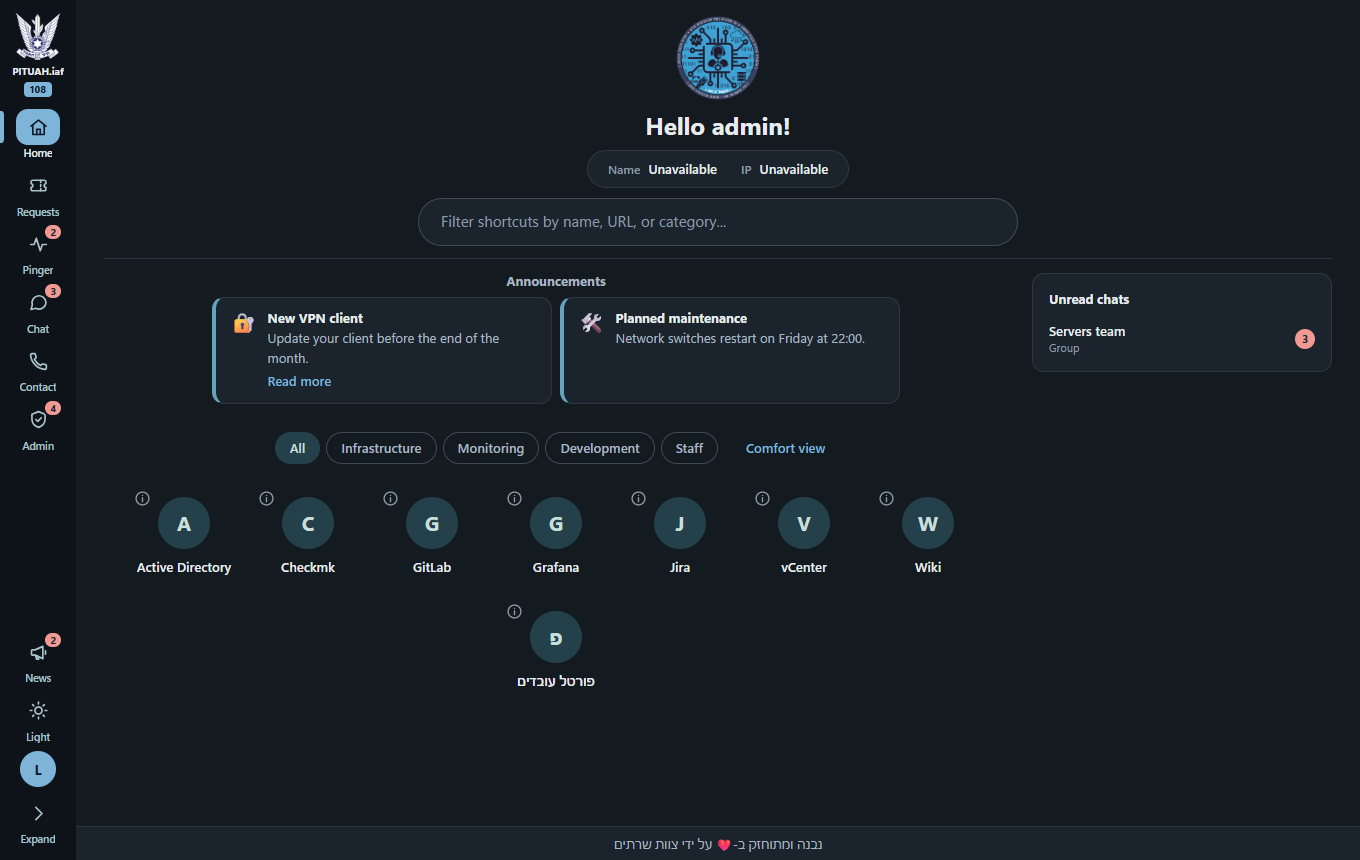
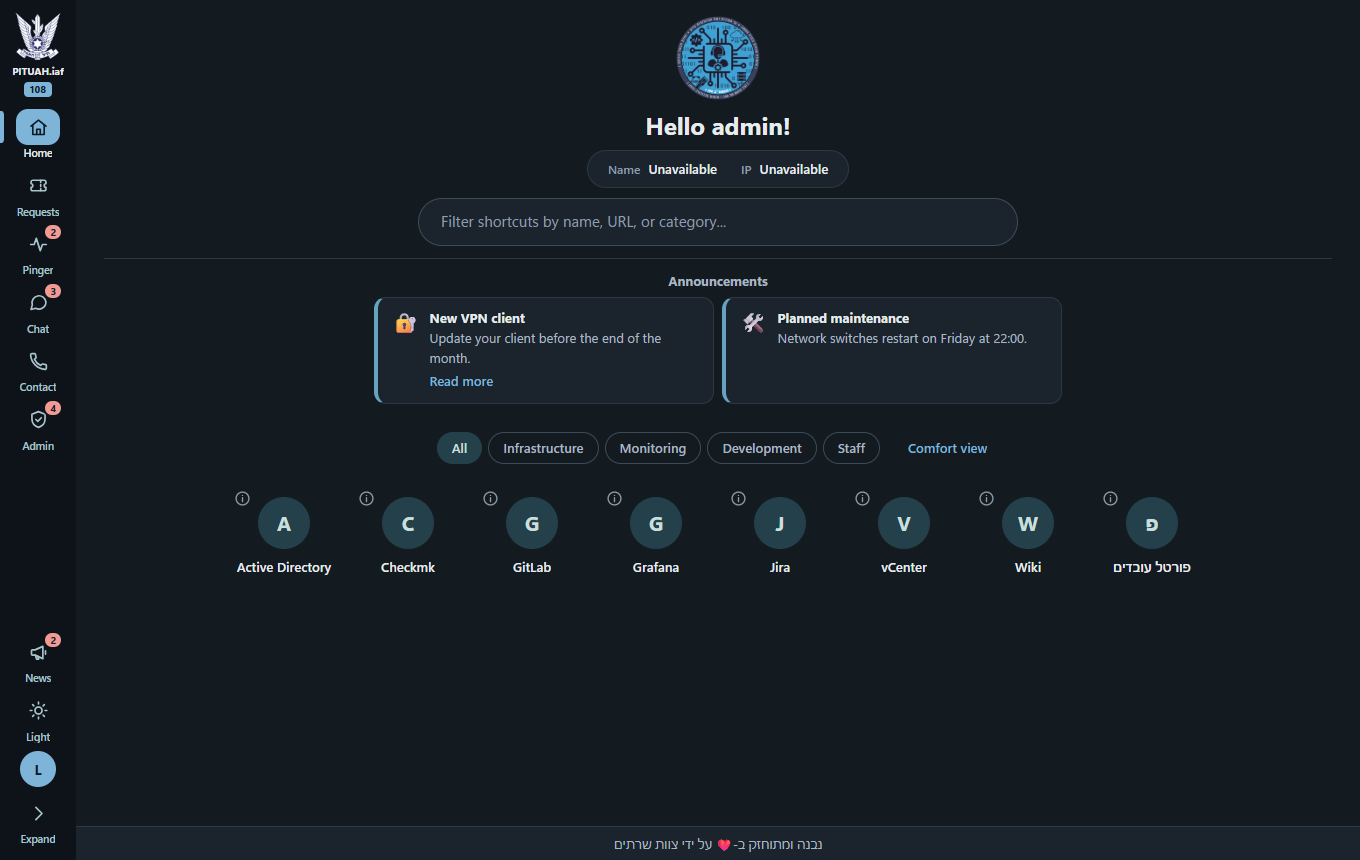
Remove the unread chats box from Home
The badge on Chat in the sidebar already shows the unread count, so Home
no longer lists unread chats or loads the conversation list. Update the
README screenshots to match.

diff --git a/frontend/src/components/Entery.js b/frontend/src/components/Entery.js
@@ -5,21 +5,6 @@ import { isJwtExpired } from '../utils/jwtSession';
 import AppInfoDialog from './AppInfoDialog';
 import { InfoIcon } from './Icons';
 import { safeLink } from '../utils/safeUrl';
-/** Match TeamsChatPanel: open this conversation when switching to the Chat tab from home. */
-const CHAT_FOCUS_CONV_STORAGE_KEY = 'sc_chat_focus_conv_id';
-
-function chatUnreadKindLabel(type) {
-  switch (String(type || '').toLowerCase()) {
-    case 'global':
-      return 'Channel';
-    case 'dm':
-      return 'Direct';
-    case 'group':
-      return 'Group';
-    default:
-      return 'Chat';
-  }
-}
 function displayShortcutUrl(raw) {
   const s = String(raw || '').trim();
   if (!s) return '—';
@@ -203,7 +188,7 @@ function TileMenu({ menu, onClose, onEdit }) {
   );
 }
 
-function Entery({ onOpenAdminCheckmk, onOpenChat, onEditShortcut }) {
+function Entery({ onOpenAdminCheckmk, onEditShortcut }) {
   const [brandLogo, setBrandLogo] = useState('logo192.png');
   const [searchQuery, setSearchQuery] = useState('');
   const [activeCategory, setActiveCategory] = useState('All');
@@ -218,8 +203,6 @@ function Entery({ onOpenAdminCheckmk, onOpenChat, onEditShortcut }) {
   const [systemInfo, setSystemInfo] = useState({ computerName: '', ipAddress: '' });
   const [systemInfoError, setSystemInfoError] = useState('');
   const [systemInfoLoaded, setSystemInfoLoaded] = useState(false);
-  const [lobbyChatUiEnabled, setLobbyChatUiEnabled] = useState(true);
-  const [homeUnreadChats, setHomeUnreadChats] = useState([]);
   const [homeMotd, setHomeMotd] = useState(null);
 
   const [infoAppId, setInfoAppId] = useState(null);
@@ -446,44 +429,6 @@ function Entery({ onOpenAdminCheckmk, onOpenChat, onEditShortcut }) {
     };
   }, []);
 
-  const refreshHomeUnreadChats = useCallback(() => {
-    const token = localStorage.getItem('token');
-    if (!token) {
-      setHomeUnreadChats([]);
-      return;
-    }
-    try {
-      const decoded = jwtDecode(token);
-      if (isJwtExpired(decoded)) {
-        setHomeUnreadChats([]);
-        return;
-      }
-    } catch {
-      setHomeUnreadChats([]);
-      return;
-    }
-
-    fetch('/api/chat/conversations', { headers: { Authorization: `Bearer ${token}` } })
-      .then(async (r) => {
-        if (r.status === 403) return [];
-        if (!r.ok) throw new Error(String(r.status));
-        const data = await r.json();
-        const list = Array.isArray(data.conversations) ? data.conversations : [];
-        return list.filter((c) => typeof c.unread === 'number' && c.unread > 0);
-      })
-      .then((rows) => {
-        rows.sort((a, b) => {
-          const diff = Number(b.unread || 0) - Number(a.unread || 0);
-          if (diff !== 0) return diff;
-          return String(a.title || '').localeCompare(String(b.title || ''), undefined, {
-            sensitivity: 'base',
-          });
-        });
-        setHomeUnreadChats(rows);
-      })
-      .catch(() => {});
-  }, []);
-
   useEffect(() => {
     let cancelled = false;
     const load = () => {
@@ -509,55 +454,13 @@ function Entery({ onOpenAdminCheckmk, onOpenChat, onEditShortcut }) {
     fetch('/api/settings/public')
       .then((r) => (r.ok ? r.json() : {}))
       .then((settings) => {
-        if (cancelled) return;
-        setLobbyChatUiEnabled(settings?.lobbyChatEnabled !== false);
-        if (settings?.logoUrl) setBrandLogo(settings.logoUrl);
+        if (!cancelled && settings?.logoUrl) setBrandLogo(settings.logoUrl);
       })
-      .catch(() => {
-        if (!cancelled) setLobbyChatUiEnabled(true);
-      });
+      .catch(() => {});
     return () => {
       cancelled = true;
     };
   }, []);
-
-  useEffect(() => {
-    if (!lobbyChatUiEnabled) {
-      setHomeUnreadChats([]);
-      return undefined;
-    }
-    const tick = () => refreshHomeUnreadChats();
-    tick();
-    const id = setInterval(tick, 20000);
-    const onFocus = () => tick();
-    const onActivity = () => tick();
-    const onVis = () => {
-      if (!document.hidden) tick();
-    };
-    window.addEventListener('focus', onFocus);
-    window.addEventListener('sc:chat-activity', onActivity);
-    document.addEventListener('visibilitychange', onVis);
-    return () => {
-      clearInterval(id);
-      window.removeEventListener('focus', onFocus);
-      window.removeEventListener('sc:chat-activity', onActivity);
-      document.removeEventListener('visibilitychange', onVis);
-    };
-  }, [lobbyChatUiEnabled, refreshHomeUnreadChats]);
-
-  const openUnreadChatThread = useCallback(
-    (conversationId) => {
-      try {
-        sessionStorage.setItem(CHAT_FOCUS_CONV_STORAGE_KEY, String(conversationId));
-      } catch {
-        /* ignore */
-      }
-      if (typeof onOpenChat === 'function') {
-        onOpenChat();
-      }
-    },
-    [onOpenChat],
-  );
 
   const checkmkTileLoading =
     checkmkUiEnabled &&
@@ -825,37 +728,6 @@ function Entery({ onOpenAdminCheckmk, onOpenChat, onEditShortcut }) {
                 </aside>
               ) : null}
 
-              {lobbyChatUiEnabled && typeof onOpenChat === 'function' && homeUnreadChats.length > 0 ? (
-                <aside className="home-chat-unread-widget" aria-label="Unread chats">
-                  <div className="home-chat-unread-widget__heading">
-                    <span className="home-chat-unread-widget__label">Unread chats</span>
-                  </div>
-                  <ul className="home-chat-unread-widget__list">
-                    {homeUnreadChats.map((c) => {
-                      const kind = chatUnreadKindLabel(c.type);
-                      const title = c.title || 'Chat';
-                      return (
-                        <li key={String(c.id)} className="home-chat-unread-widget__item">
-                          <button
-                            type="button"
-                            className="home-chat-unread-widget__row"
-                            onClick={() => openUnreadChatThread(c.id)}
-                            aria-label={`Open chat: ${title}, ${kind}, ${typeof c.unread === 'number' ? c.unread : 0} unread`}
-                          >
-                            <span className="home-chat-unread-widget__row-main">
-                              <span className="home-chat-unread-widget__title">{title}</span>
-                              <span className="home-chat-unread-widget__kind">{kind}</span>
-                            </span>
-                            <span className="home-chat-unread-widget__badge" aria-hidden="true">
-                              {typeof c.unread === 'number' && c.unread > 99 ? '99+' : c.unread}
-                            </span>
-                          </button>
-                        </li>
-                      );
-                    })}
-                  </ul>
-                </aside>
-              ) : null}
             </div>
           </div>
         </div>

diff --git a/frontend/src/styles/home.css b/frontend/src/styles/home.css
@@ -364,8 +364,7 @@ button.home-admin-open-square:hover {
 
 /* Side widgets */
 .home-system-widget,
-.home-motd-widget,
-.home-chat-unread-widget {
+.home-motd-widget {
   padding: 14px 16px;
   background: var(--surface);
   border: 1px solid var(--border);
@@ -419,75 +418,6 @@ button.home-admin-open-square:hover {
 
 .home-motd-widget__placeholder {
   font-size: 13px;
-}
-
-.home-chat-unread-widget__heading {
-  margin-bottom: 6px;
-}
-
-.home-chat-unread-widget__label {
-  font-size: 13px;
-  font-weight: 650;
-}
-
-.home-chat-unread-widget__list {
-  display: flex;
-  flex-direction: column;
-  gap: 2px;
-  margin: 0 -8px -6px;
-  padding: 0;
-  list-style: none;
-}
-
-.home-chat-unread-widget__row {
-  display: flex;
-  align-items: center;
-  justify-content: space-between;
-  gap: 10px;
-  width: 100%;
-  padding: 6px 8px;
-  background: transparent;
-  border: 0;
-  border-radius: var(--radius-sm);
-  text-align: start;
-}
-
-.home-chat-unread-widget__row:hover {
-  background: var(--surface-3);
-}
-
-.home-chat-unread-widget__row-main {
-  display: flex;
-  flex: 1;
-  flex-direction: column;
-  min-width: 0;
-}
-
-.home-chat-unread-widget__title {
-  max-width: 100%;
-  overflow: hidden;
-  font-size: 13px;
-  font-weight: 600;
-  text-overflow: ellipsis;
-  white-space: nowrap;
-}
-
-.home-chat-unread-widget__kind {
-  color: var(--text-3);
-  font-size: 11px;
-}
-
-.home-chat-unread-widget__badge {
-  flex-shrink: 0;
-  min-width: 20px;
-  padding: 0 6px;
-  background: var(--danger);
-  border-radius: var(--radius-pill);
-  color: var(--surface);
-  font-size: 11px;
-  font-weight: 700;
-  line-height: 20px;
-  text-align: center;
 }
 
 /* Announcements */

diff --git a/frontend/src/App.js b/frontend/src/App.js
@@ -256,7 +256,6 @@ function App() {
           {activeTab === 'entery' && (
             <Entery
               onOpenAdminCheckmk={() => handleTabClick('admindashboard', { adminInitialTab: 'checkmk' })}
-              onOpenChat={() => handleTabClick('lobbyChat')}
               onEditShortcut={(id) => handleTabClick('admindashboard', { adminInitialTab: 'shortcuts', editShortcutId: id })}
             />
           )}

diff --git a/README.md b/README.md
@@ -43,7 +43,7 @@ It runs as a single Docker container and needs no internet access, so it works o
 - Shortcut tiles with search, category filters, favorites, and small or comfort views.
 - An "i" button on each shortcut shows its summary, use cases and examples.
 - Admins can right-click a shortcut to edit it.
-- Shows the visitor's computer name and IP address, plus announcements, message of the day and unread chats.
+- Shows the visitor's computer name and IP address, plus announcements and the message of the day.
 - The search bar stays in place while the shortcuts scroll.
 
 **Tickets**
